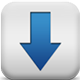
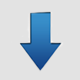
arrowHover

diff --git a/Portfolio/style/style.css b/Portfolio/style/style.css
@@ -218,8 +218,13 @@ footer li a:hover
     height: 80px;
     left: 50%;
     top: 85%;
-    background: url(../images/arrowdown.png) no-repeat 0px 0px;
+    background: url(../images/arrowdown.png);
     transform: translate(-50%);   
+}
+
+#arrowDown:hover
+{
+    background-image: url(../images/arrowDownHover.png);
 }
 
 #arrowUp
@@ -229,12 +234,13 @@ footer li a:hover
     height: 80px;
     left: 50%;
     top: 10%;
-    background: url(../images/arrowup.png) no-repeat 0px 0px;
+    background: url(../images/arrowup.png);
     transform: translate(-50%);   
 }
-#arrow:hover
+
+#arrowUp:hover
 {
-    
+    background-image: url(../images/arrowuphover.png);
 }
 
 #Port1, #Port2,#Port2-1,#Port2-2, #Port2-3, #Port3, #Port4,#Port4-1,#Port4-2, #Port5, #Port6
